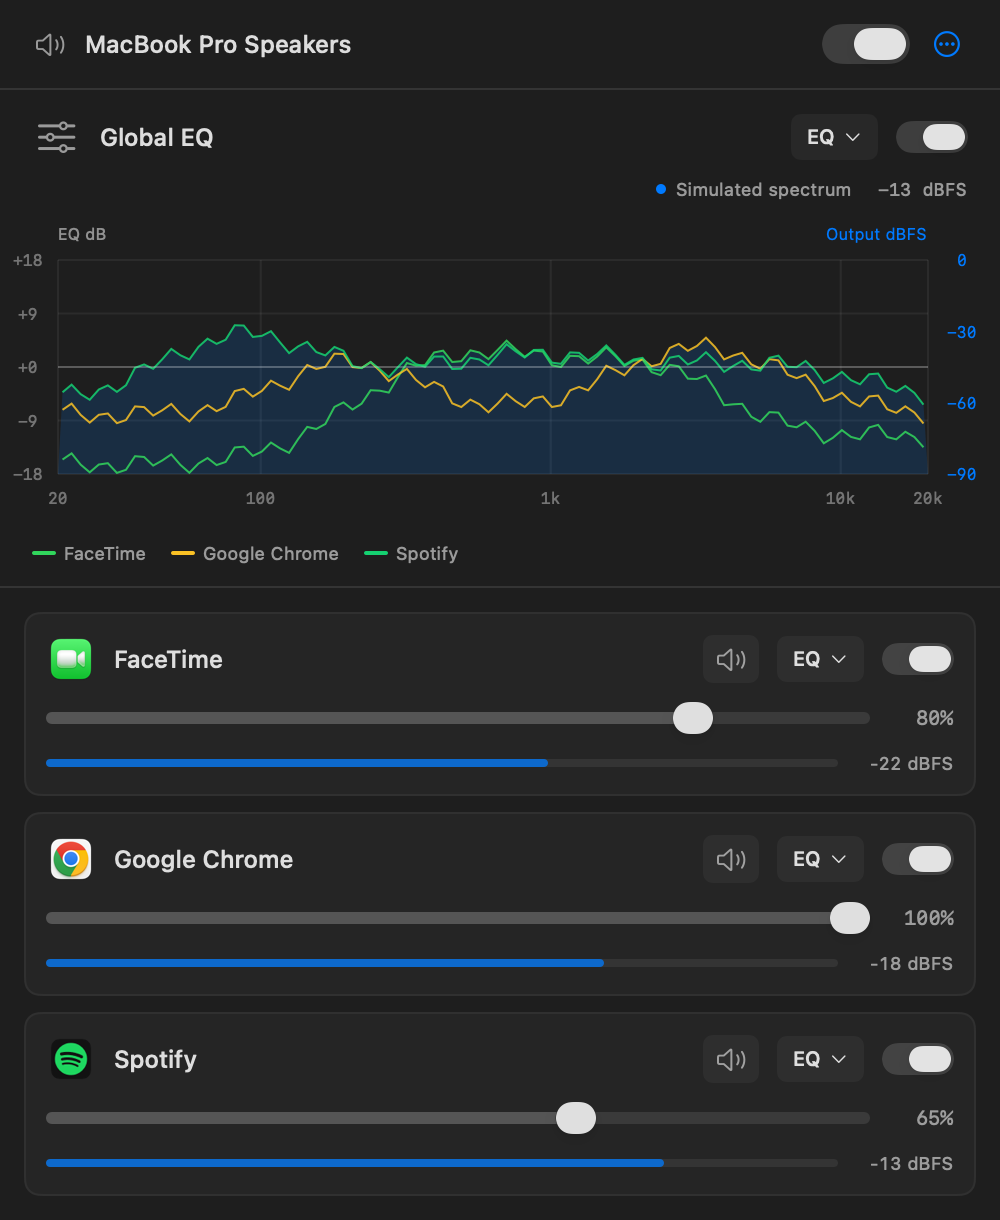
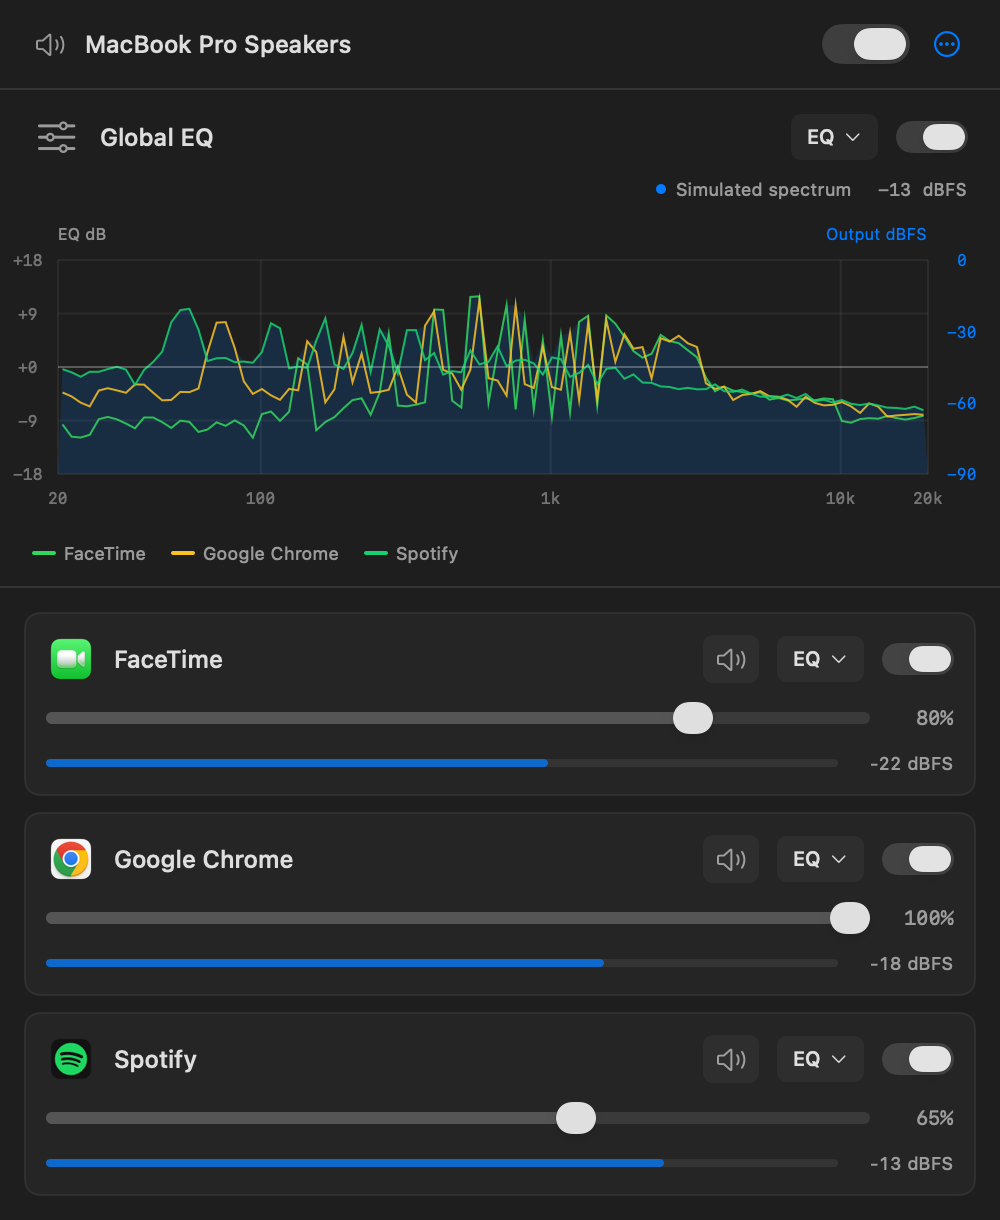
Refresh README with desktop-context screenshots

Changed region(s): [[0.062, 0.2492, 0.93, 0.3738]]

diff --git a/QEQ/App/Sources/DesktopScreenshot.swift b/QEQ/App/Sources/DesktopScreenshot.swift
@@ -1,0 +1,126 @@
+import AppKit
+import QuartzCore
+import SwiftUI
+
+/// Documentation-only desktop context around the actual QEQ view.
+/// All wallpaper/menu-bar elements are synthetic; no screen or audio capture.
+@MainActor
+struct DesktopScreenshot: View {
+    @ObservedObject var model: MixerModel
+    let panelHeight: CGFloat
+
+    var body: some View {
+        ZStack(alignment: .topLeading) {
+            wallpaper
+            menuBar
+            VStack(spacing: 0) {
+                Triangle().fill(Color(nsColor: .windowBackgroundColor))
+                    .frame(width: 20, height: 10)
+                    .frame(width: 500, alignment: .leading).padding(.leading, 268)
+                    .frame(width: 500, alignment: .leading).clipped()
+                MixerView(model: model)
+                    .background(Color(nsColor: .windowBackgroundColor))
+                    .clipShape(RoundedRectangle(cornerRadius: 13))
+                    .overlay(RoundedRectangle(cornerRadius: 13).strokeBorder(.white.opacity(0.16), lineWidth: 0.5))
+            }
+            .frame(width: 500, height: panelHeight + 10)
+            .shadow(color: .black.opacity(0.35), radius: 24, x: 0, y: 16)
+            .offset(x: 478, y: 33)
+        }
+        .frame(width: 1000, height: 720)
+        .clipped()
+        .environment(\.controlActiveState, .active)
+    }
+
+    private var wallpaper: some View {
+        ZStack {
+            LinearGradient(
+                colors: [
+                    Color(red: 0.07, green: 0.10, blue: 0.26), Color(red: 0.18, green: 0.24, blue: 0.47),
+                    Color(red: 0.42, green: 0.29, blue: 0.48),
+                ], startPoint: .topLeading, endPoint: .bottomTrailing)
+            Ellipse().fill(
+                LinearGradient(
+                    colors: [Color(red: 0.57, green: 0.46, blue: 0.70), Color(red: 0.18, green: 0.23, blue: 0.48)],
+                    startPoint: .topLeading, endPoint: .bottomTrailing)
+            )
+            .frame(width: 1430, height: 700).rotationEffect(.degrees(-27)).offset(x: -310, y: 190)
+            .shadow(color: .black.opacity(0.3), radius: 70, x: 30, y: 10)
+            Ellipse().fill(
+                LinearGradient(
+                    colors: [
+                        Color(red: 0.30, green: 0.57, blue: 0.75), Color(red: 0.10, green: 0.26, blue: 0.45),
+                        Color(red: 0.04, green: 0.12, blue: 0.28),
+                    ], startPoint: .topLeading, endPoint: .bottomTrailing)
+            )
+            .frame(width: 1340, height: 520).rotationEffect(.degrees(-32)).offset(x: -360, y: 340)
+            .shadow(color: Color(red: 0.07, green: 0.12, blue: 0.28).opacity(0.55), radius: 45, x: 0, y: -20)
+            Ellipse().fill(
+                LinearGradient(
+                    colors: [Color(red: 0.26, green: 0.47, blue: 0.62), Color(red: 0.04, green: 0.10, blue: 0.23)],
+                    startPoint: .topLeading, endPoint: .bottomTrailing)
+            )
+            .frame(width: 1400, height: 450).rotationEffect(.degrees(-30)).offset(x: -180, y: 580)
+        }.frame(width: 1000, height: 720).clipped()
+    }
+
+    private var menuBar: some View {
+        ZStack(alignment: .topLeading) {
+            Rectangle().fill(.white.opacity(0.09)).frame(height: 30)
+            HStack(spacing: 22) {
+                Image(systemName: "apple.logo").font(.system(size: 16))
+                Text("Finder").fontWeight(.semibold)
+                Text("File")
+                Text("Edit")
+                Text("View")
+                Text("Go")
+                Text("Window")
+                Text("Help")
+            }.font(.system(size: 13)).frame(height: 30).padding(.leading, 20)
+            RoundedRectangle(cornerRadius: 5).fill(.white.opacity(0.22))
+                .frame(width: 34, height: 26).position(x: 756, y: 15)
+            Image(nsImage: MenuBarIcon.makeImage()).renderingMode(.template)
+                .frame(width: 18, height: 18).position(x: 756, y: 15)
+            Image(systemName: "wifi").position(x: 796, y: 15)
+            Image(systemName: "switch.2").position(x: 832, y: 15)
+            Image(systemName: "battery.100percent").position(x: 870, y: 15)
+            Text("Mon 9:41").font(.system(size: 12, weight: .medium)).position(x: 930, y: 15)
+        }.font(.system(size: 14)).foregroundStyle(.white.opacity(0.95)).frame(width: 1000, height: 30)
+    }
+
+    private struct Triangle: Shape {
+        func path(in rect: CGRect) -> Path {
+            Path { path in
+                path.move(to: CGPoint(x: rect.midX, y: rect.minY))
+                path.addLine(to: CGPoint(x: rect.maxX, y: rect.maxY))
+                path.addLine(to: CGPoint(x: rect.minX, y: rect.maxY))
+                path.closeSubpath()
+            }
+        }
+    }
+
+    static func render(model: MixerModel, panelHeight: CGFloat, appearance: NSAppearance?, to path: URL) throws {
+        let host = NSHostingController(rootView: DesktopScreenshot(model: model, panelHeight: panelHeight))
+        let window = NSWindow(
+            contentRect: NSRect(x: -10000, y: 0, width: 1000, height: 720), styleMask: .borderless, backing: .buffered,
+            defer: false)
+        window.appearance = appearance
+        window.contentViewController = host
+        window.makeKeyAndOrderFront(nil)
+        defer { window.orderOut(nil) }
+        for _ in 0..<16 {
+            RunLoop.current.run(until: Date().addingTimeInterval(0.035))
+            host.view.layoutSubtreeIfNeeded()
+            host.view.displayIfNeeded()
+            CATransaction.flush()
+        }
+        let bitmap = NSBitmapImageRep(
+            bitmapDataPlanes: nil, pixelsWide: 2000, pixelsHigh: 1440, bitsPerSample: 8, samplesPerPixel: 4,
+            hasAlpha: true, isPlanar: false, colorSpaceName: .deviceRGB, bytesPerRow: 0, bitsPerPixel: 0)!
+        bitmap.size = NSSize(width: 1000, height: 720)
+        ScreenshotControls.prepare(in: host.view)
+        host.view.cacheDisplay(in: host.view.bounds, to: bitmap)
+        try bitmap.representation(using: .png, properties: [:])!.write(to: path)
+        print("Desktop preview: \(path.lastPathComponent)")
+    }
+}

diff --git a/QEQ/App/Sources/ScreenshotAudio.swift b/QEQ/App/Sources/ScreenshotAudio.swift
@@ -1,0 +1,102 @@
+import Accelerate
+import Foundation
+
+/// Offline documentation fixtures. Analyze synthesized PCM instead of drawing
+/// periodic ripples in frequency space. Never touches an audio device.
+enum ScreenshotAudio {
+    enum Source { case music, voice, browser }
+
+    static func spectrum(_ source: Source) -> [Float] {
+        let count = 16384
+        let rate = 48000.0
+        var seed: UInt64 = source == .music ? 481 : (source == .voice ? 719 : 1223)
+        func random() -> Double {
+            seed = seed &* 6_364_136_223_846_793_005 &+ 1_442_695_040_888_963_407
+            return Double(seed >> 11) / Double(UInt64.max >> 11)
+        }
+        // Independent phases and strengths make each source a distinct snapshot.
+        var partials: [(frequency: Double, amplitude: Double, phase: Double)] = []
+        func harmonics(_ fundamental: Double, level: Double, voice: Bool) {
+            for harmonic in 1...70 {
+                let hz = fundamental * Double(harmonic)
+                guard hz < 15000 else { break }
+                var amplitude = level / pow(Double(harmonic), voice ? 0.85 : 1.3)
+                if voice {
+                    // Formants of a voiced vowel, with a natural upper rolloff.
+                    func formant(_ center: Double, _ width: Double) -> Double {
+                        exp(-0.5 * pow((hz - center) / width, 2))
+                    }
+                    amplitude *=
+                        0.12 + 2.7 * formant(620, 150)
+                        + 2.0 * formant(1480, 230) + 1.1 * formant(2650, 360)
+                }
+                amplitude *= 0.7 + 0.6 * random()
+                partials.append((hz, amplitude, random() * 2 * .pi))
+            }
+        }
+        switch source {
+        case .music:
+            harmonics(55, level: 0.22, voice: false)
+            for note in [164.81, 220.0, 261.63, 329.63] {
+                harmonics(note, level: 0.045, voice: false)
+            }
+        case .voice:
+            harmonics(137, level: 0.32, voice: true)
+        case .browser:
+            harmonics(193, level: 0.22, voice: true)
+            harmonics(73.42, level: 0.055, voice: false)
+        }
+        var samples = [Float](repeating: 0, count: count)
+        var slow = 0.0
+        var middle = 0.0
+        var fast = 0.0
+        var previous = 0.0
+        for index in 0..<count {
+            let time = Double(index) / rate
+            let white = 2 * random() - 1
+            slow = 0.995 * slow + 0.005 * white
+            middle = 0.95 * middle + 0.05 * white
+            fast = 0.55 * fast + 0.45 * white
+            let pink = 3 * slow + 1.5 * middle + 0.35 * fast
+            var signal = 0.0
+            for partial in partials {
+                // Slight pitch motion and amplitude modulation in the PCM.
+                let pitch = source == .music ? 0 : 0.006 * sin(2 * .pi * 4.7 * time)
+                signal += partial.amplitude * sin(2 * .pi * partial.frequency * time + partial.phase + pitch)
+            }
+            if source == .music {
+                let kick = 0.20 * exp(-time * 14) * sin(2 * .pi * (47 * time + 1.4 * (1 - exp(-time * 28))))
+                let snare = 0.17 * exp(-max(0, time - 0.09) * 25) * (time > 0.09 ? fast : 0)
+                signal += 0.20 * pink + kick + snare
+            } else {
+                let syllable = 0.65 + 0.35 * exp(-pow((time - 0.17) / 0.09, 2))
+                signal = signal * syllable + 0.045 * pink + 0.025 * (fast - previous)
+            }
+            previous = fast
+            // Same Hann window and amplitude normalization as the live analyzer.
+            samples[index] = Float(signal * (0.5 - 0.5 * cos(2 * .pi * Double(index) / Double(count))))
+        }
+        let setup = vDSP_DFT_zop_CreateSetup(nil, vDSP_Length(count), .FORWARD)!
+        defer { vDSP_DFT_DestroySetup(setup) }
+        var imaginary = [Float](repeating: 0, count: count)
+        var real = imaginary
+        var imag = imaginary
+        vDSP_DFT_Execute(setup, &samples, &imaginary, &real, &imag)
+        let scale = Float(4.0 / Double(count))
+        let powers = (0..<count / 2).map { (real[$0] * real[$0] + imag[$0] * imag[$0]) * scale * scale }
+        func power(at position: Double) -> Float {
+            let lower = Int(position)
+            let fraction = Float(position - Double(lower))
+            return powers[lower] * (1 - fraction) + powers[lower + 1] * fraction
+        }
+        return (0..<96).map { index in
+            let low = 20 * pow(1000, Double(index) / 96) / rate * Double(count)
+            let high = 20 * pow(1000, Double(index + 1) / 96) / rate * Double(count)
+            var peak = max(power(at: low), power(at: high))
+            let start = max(1, Int(ceil(low)))
+            let end = Int(floor(high))
+            if start <= end { peak = max(peak, powers[start...end].max() ?? 0) }
+            return max(-90, min(0, 10 * log10(max(1e-9, peak))))
+        }
+    }
+}

diff --git a/QEQ/App/Sources/ScreenshotRenderer.swift b/QEQ/App/Sources/ScreenshotRenderer.swift
@@ -54,6 +54,7 @@ struct ScreenshotRenderer {
                 pixelsHigh: Int(size.height * 2), bitsPerSample: 8, samplesPerPixel: 4, hasAlpha: true,
                 isPlanar: false, colorSpaceName: .deviceRGB, bytesPerRow: 0, bitsPerPixel: 0)!
             bitmap.size = size
+            ScreenshotControls.prepare(in: host.view)
             host.view.cacheDisplay(in: host.view.bounds, to: bitmap)
             try bitmap.representation(using: .png, properties: [:])!.write(
                 to: directory.appendingPathComponent(name + ".png"))
@@ -77,6 +78,11 @@ struct ScreenshotRenderer {
         model.settings = [zoom.id: zoomEQ, music.id: musicEQ]
         // Deterministic illustrative spectra: never capture audio or claim these
         // fixtures are live. Apply the displayed EQ/volume to each sample shape.
+        let sourceSpectra = [
+            music.id: ScreenshotAudio.spectrum(.music),
+            zoom.id: ScreenshotAudio.spectrum(.voice),
+            chrome.id: ScreenshotAudio.spectrum(.browser),
+        ]
         func simulateSpectra() {
             var combined = AudioTelemetry()
             combined.simulated = true
@@ -88,22 +94,11 @@ struct ScreenshotRenderer {
                 let settings = model.value(app.id)
                 for index in 0..<96 {
                     let hz = 20 * pow(1000, (Double(index) + 0.5) / 96)
-                    func bump(_ center: Double, _ width: Double) -> Double {
-                        exp(-0.5 * pow(log2(hz / center) / width, 2))
-                    }
-                    let shape: Double
-                    if app.id == music.id {
-                        shape = -56 + 27 * bump(85, 0.9) + 20 * bump(900, 1.5) + 12 * bump(6500, 1)
-                    } else if app.id == zoom.id {
-                        shape = -72 + 35 * bump(550, 1.2) + 22 * bump(2400, 0.8)
-                    } else {
-                        shape = -65 + 22 * bump(200, 0.8) + 28 * bump(3300, 1)
-                    }
-                    let ripple = 3 * sin(Double(index) * 1.7) + 2 * cos(Double(index) * 0.63)
+                    let measured = Double(sourceSpectra[app.id]?[index] ?? -90)
                     let eq =
                         settings.responseDB(at: hz, sampleRate: 48000)
                         + model.globalEQ.responseDB(at: hz, sampleRate: 48000)
-                    let db = Float(max(-90, min(0, shape + ripple + eq + 20 * log10(settings.volume))))
+                    let db = Float(max(-90, min(0, measured + eq + 20 * log10(settings.volume))))
                     value.spectrum.append(db)
                     combined.spectrum[index] = max(combined.spectrum[index], db)
                 }
@@ -118,6 +113,9 @@ struct ScreenshotRenderer {
             \.controlActiveState, .active
         ).id("mixer")
         try capture("mixer", maximum: MixerModel.panelHeightLimit)
+        try DesktopScreenshot.render(
+            model: model, panelHeight: layout().height, appearance: window.appearance,
+            to: directory.appendingPathComponent("desktop-mixer.png"))
         model.snapshot.apps = [zoom]
         model.selectedEQ = zoom.id
         simulateSpectra()
@@ -125,6 +123,9 @@ struct ScreenshotRenderer {
             \.controlActiveState, .active
         ).id("equalizer")
         try capture("equalizer", maximum: MixerModel.panelHeightLimit)
+        try DesktopScreenshot.render(
+            model: model, panelHeight: layout().height, appearance: window.appearance,
+            to: directory.appendingPathComponent("desktop-app-equalizer.png"))
         model.globalEQ.bands = EQPreset.warm.bands
         model.selectedEQ = MixerModel.globalEQID
         simulateSpectra()
@@ -190,6 +191,7 @@ struct ScreenshotRenderer {
             bitsPerSample: 8, samplesPerPixel: 4, hasAlpha: true, isPlanar: false, colorSpaceName: .deviceRGB,
             bytesPerRow: 0, bitsPerPixel: 0)!
         bitmap.size = NSSize(width: 470, height: 620)
+        ScreenshotControls.prepare(in: host.view)
         host.view.cacheDisplay(in: host.view.bounds, to: bitmap)
         try bitmap.representation(using: .png, properties: [:])!.write(
             to: directory.appendingPathComponent(showExclusions ? "excluded-apps.png" : "settings.png"))

diff --git a/QEQ/App/Sources/ScreenshotControls.swift b/QEQ/App/Sources/ScreenshotControls.swift
@@ -1,0 +1,40 @@
+import AppKit
+
+/// Native rounded text-field bezels depend on the window compositor. Offscreen
+/// bitmap rendering can leave bright fragments around their edges. Give only
+/// documentation captures a flat, appearance-matched bezel instead.
+@MainActor
+enum ScreenshotControls {
+    private final class CaptureTextFieldCell: NSTextFieldCell {
+        override func drawingRect(forBounds rect: NSRect) -> NSRect {
+            var drawing = super.drawingRect(forBounds: rect)
+            let textHeight = cellSize(forBounds: rect).height
+            drawing.origin.y += max(0, (drawing.height - textHeight) / 2)
+            drawing.size.height = min(drawing.height, textHeight)
+            return drawing.insetBy(dx: 4, dy: 0)
+        }
+    }
+
+    static func prepare(in view: NSView) {
+        if let field = view as? NSTextField, field.isEditable {
+            let cell = CaptureTextFieldCell(textCell: field.stringValue)
+            cell.font = field.font
+            cell.textColor = field.textColor
+            cell.alignment = field.alignment
+            cell.isEditable = true
+            cell.isSelectable = true
+            cell.isScrollable = true
+            field.cell = cell
+            field.isBezeled = false
+            field.drawsBackground = false
+            field.backgroundColor = .textBackgroundColor
+            field.wantsLayer = true
+            field.layer?.backgroundColor = NSColor.textBackgroundColor.cgColor
+            field.layer?.cornerRadius = 5
+            field.layer?.borderWidth = 0.5
+            field.layer?.borderColor = NSColor.separatorColor.cgColor
+            field.layer?.masksToBounds = true
+        }
+        for child in view.subviews { prepare(in: child) }
+    }
+}

diff --git a/QEQ/scripts/screenshots.py b/QEQ/scripts/screenshots.py
@@ -7,7 +7,7 @@ from pathlib import Path
 import subprocess
 
 ROOT = Path(__file__).resolve().parents[2]
-NAMES = ('empty', 'mixer', 'equalizer', 'global-equalizer', 'empty-after-removal', 'update-available', 'settings', 'excluded-apps')
+NAMES = ('empty', 'mixer', 'equalizer', 'global-equalizer', 'empty-after-removal', 'update-available', 'settings', 'excluded-apps', 'desktop-mixer', 'desktop-app-equalizer')
 
 
 def digest(path):

diff --git a/docs/DEVELOPMENT.md b/docs/DEVELOPMENT.md
@@ -121,7 +121,9 @@ python3 QEQ/scripts/screenshots.py --check
 ./QEQ/scripts/generate_appicon.sh
 ```
 
-The screenshot command renders the real SwiftUI views with labeled fixture settings in an offscreen app window. It never starts the audio engine, reads saved settings, or captures the screen. It also checks empty, populated, app/global EQ, long-list, smaller-screen and removal layouts. The source and image fingerprints in `docs/media/screenshots.json` prevent stale README screenshots from shipping. CI renders from its just-built app using `--skip-build`; normal preparation builds first. Screenshot fixtures use deterministic simulated spectra, labeled in the interface and README. No live audio is captured; the displayed sample EQ is applied to the fixture shapes.
+The screenshot command renders the real SwiftUI views with labeled fixture settings in an offscreen app window. It never starts the audio engine, reads saved settings, or captures the screen. It also checks empty, populated, app/global EQ, long-list, smaller-screen and removal layouts. The source and image fingerprints in `docs/media/screenshots.json` prevent stale README screenshots from shipping. CI renders from its just-built app using `--skip-build`; normal preparation builds first. Screenshot fixtures use deterministic synthesized PCM (music harmonics, voiced speech, and noise), measured with a Hann-windowed FFT and labeled as simulated. The displayed EQ and volume are applied to those spectra; no live audio is captured.
+
+The same command produces `desktop-mixer.png` and `desktop-app-equalizer.png` for the README: the actual app UI on an illustrated desktop with a mock menu bar and QEQ’s menu bar icon. Both render at 2000 × 1440 pixels. The second image expands FaceTime’s EQ with a bass cut. `DesktopScreenshot.swift` owns the composition, `ScreenshotAudio.swift` generates the audio fixtures, and `ScreenshotControls.swift` supplies clean field borders for offscreen capture only. These images are included in the source/checksum manifest and existing CI/release screenshot artifacts.
 
 The icon was created with the built-in image-generation tool. The source asset and final prompt are in `QEQ/Branding/`. The generator script only creates the standard macOS icon sizes from that source. The package, modules, targets, and scripts use QEQ. The legacy `local.AppMixer` bundle identity is retained so existing settings and permission identity remain available. The menu bar uses a native template drawing of the three staggered slider rails and knobs, without the app icon’s panels or outer border.
 

diff --git a/README.md b/README.md
@@ -8,10 +8,14 @@
 <p align="center">macOS 14.4+ · Apple Silicon & Intel</p>
 
 <p align="center">
-  <img src="docs/media/mixer.png" alt="Per-app volume and mute controls" width="360">
-  <img src="docs/media/global-equalizer.png" alt="Global five-band parametric EQ" width="360">
+  <img src="docs/media/desktop-mixer.png" alt="QEQ per-app mixer open from a mock macOS menu bar" width="1000">
 </p>
-<p align="center"><sub>Screenshots show simulated spectra.</sub></p>
+<p align="center"><sub>Illustrated desktop; real app UI with simulated spectra.</sub></p>
+
+<details>
+<summary>Per-app equalizer</summary>
+<img src="docs/media/desktop-app-equalizer.png" alt="QEQ per-app parametric equalizer on an illustrated desktop" width="1000">
+</details>
 
 ## Features
 
